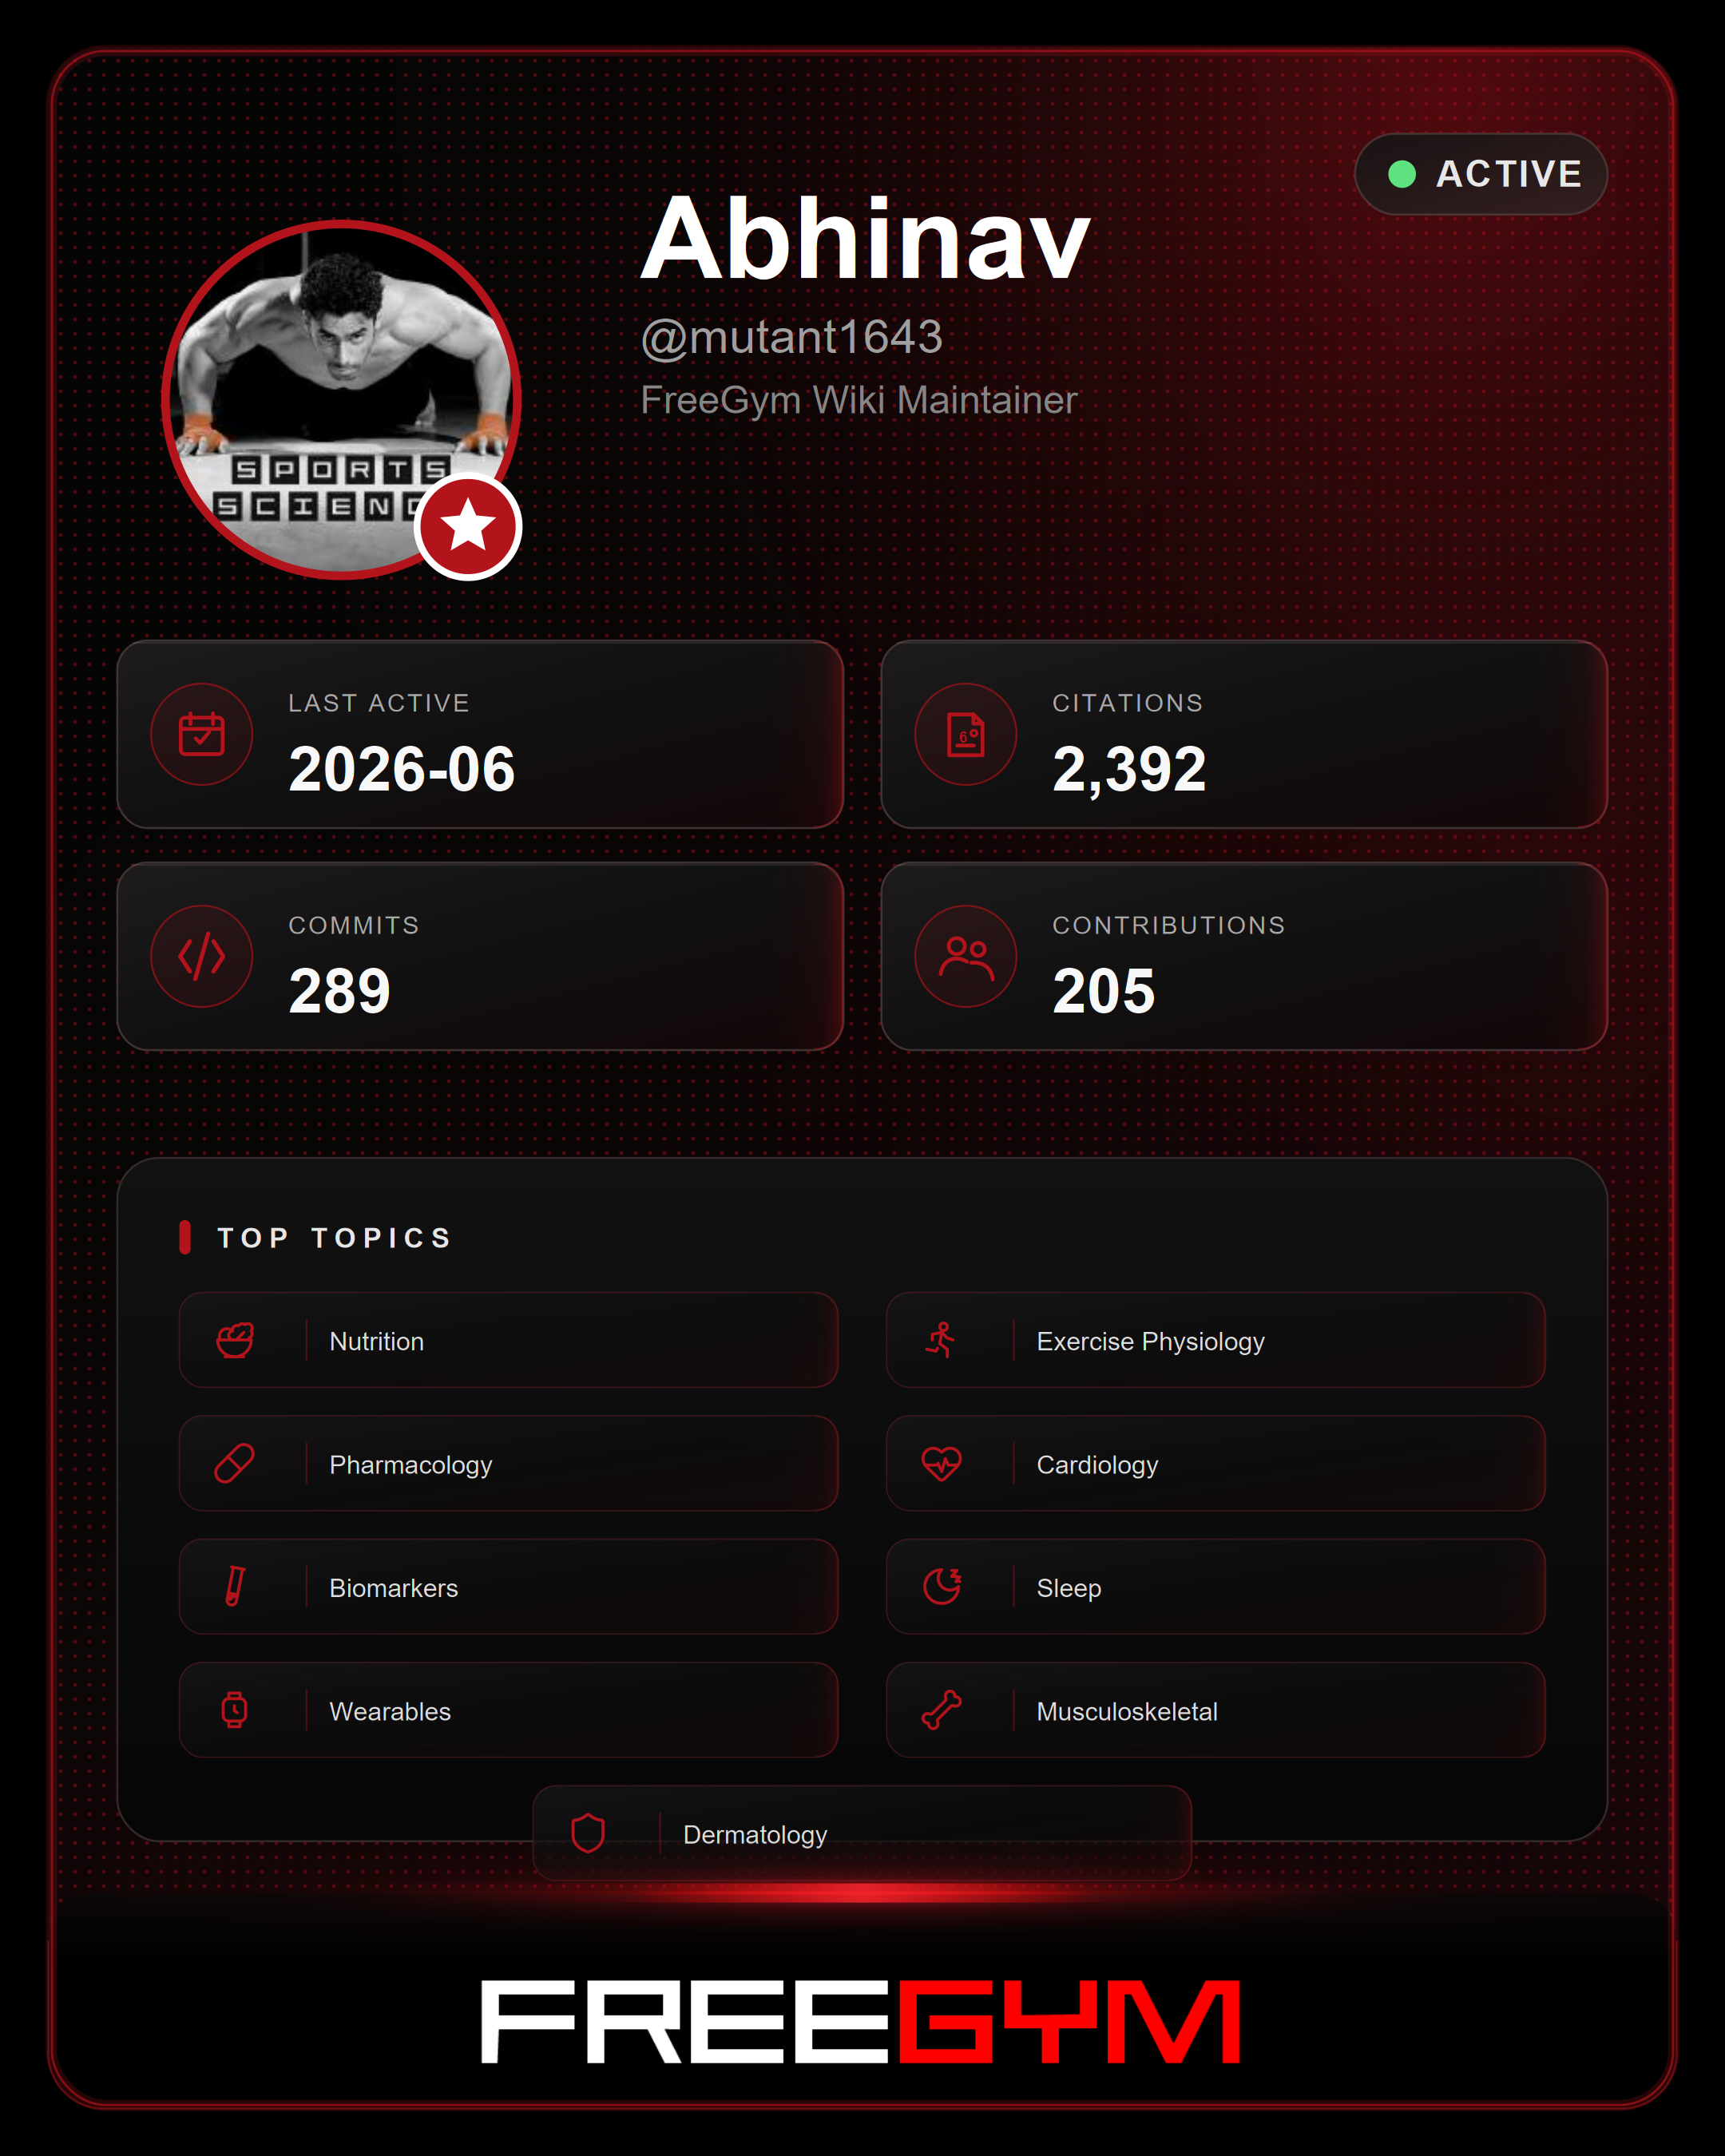
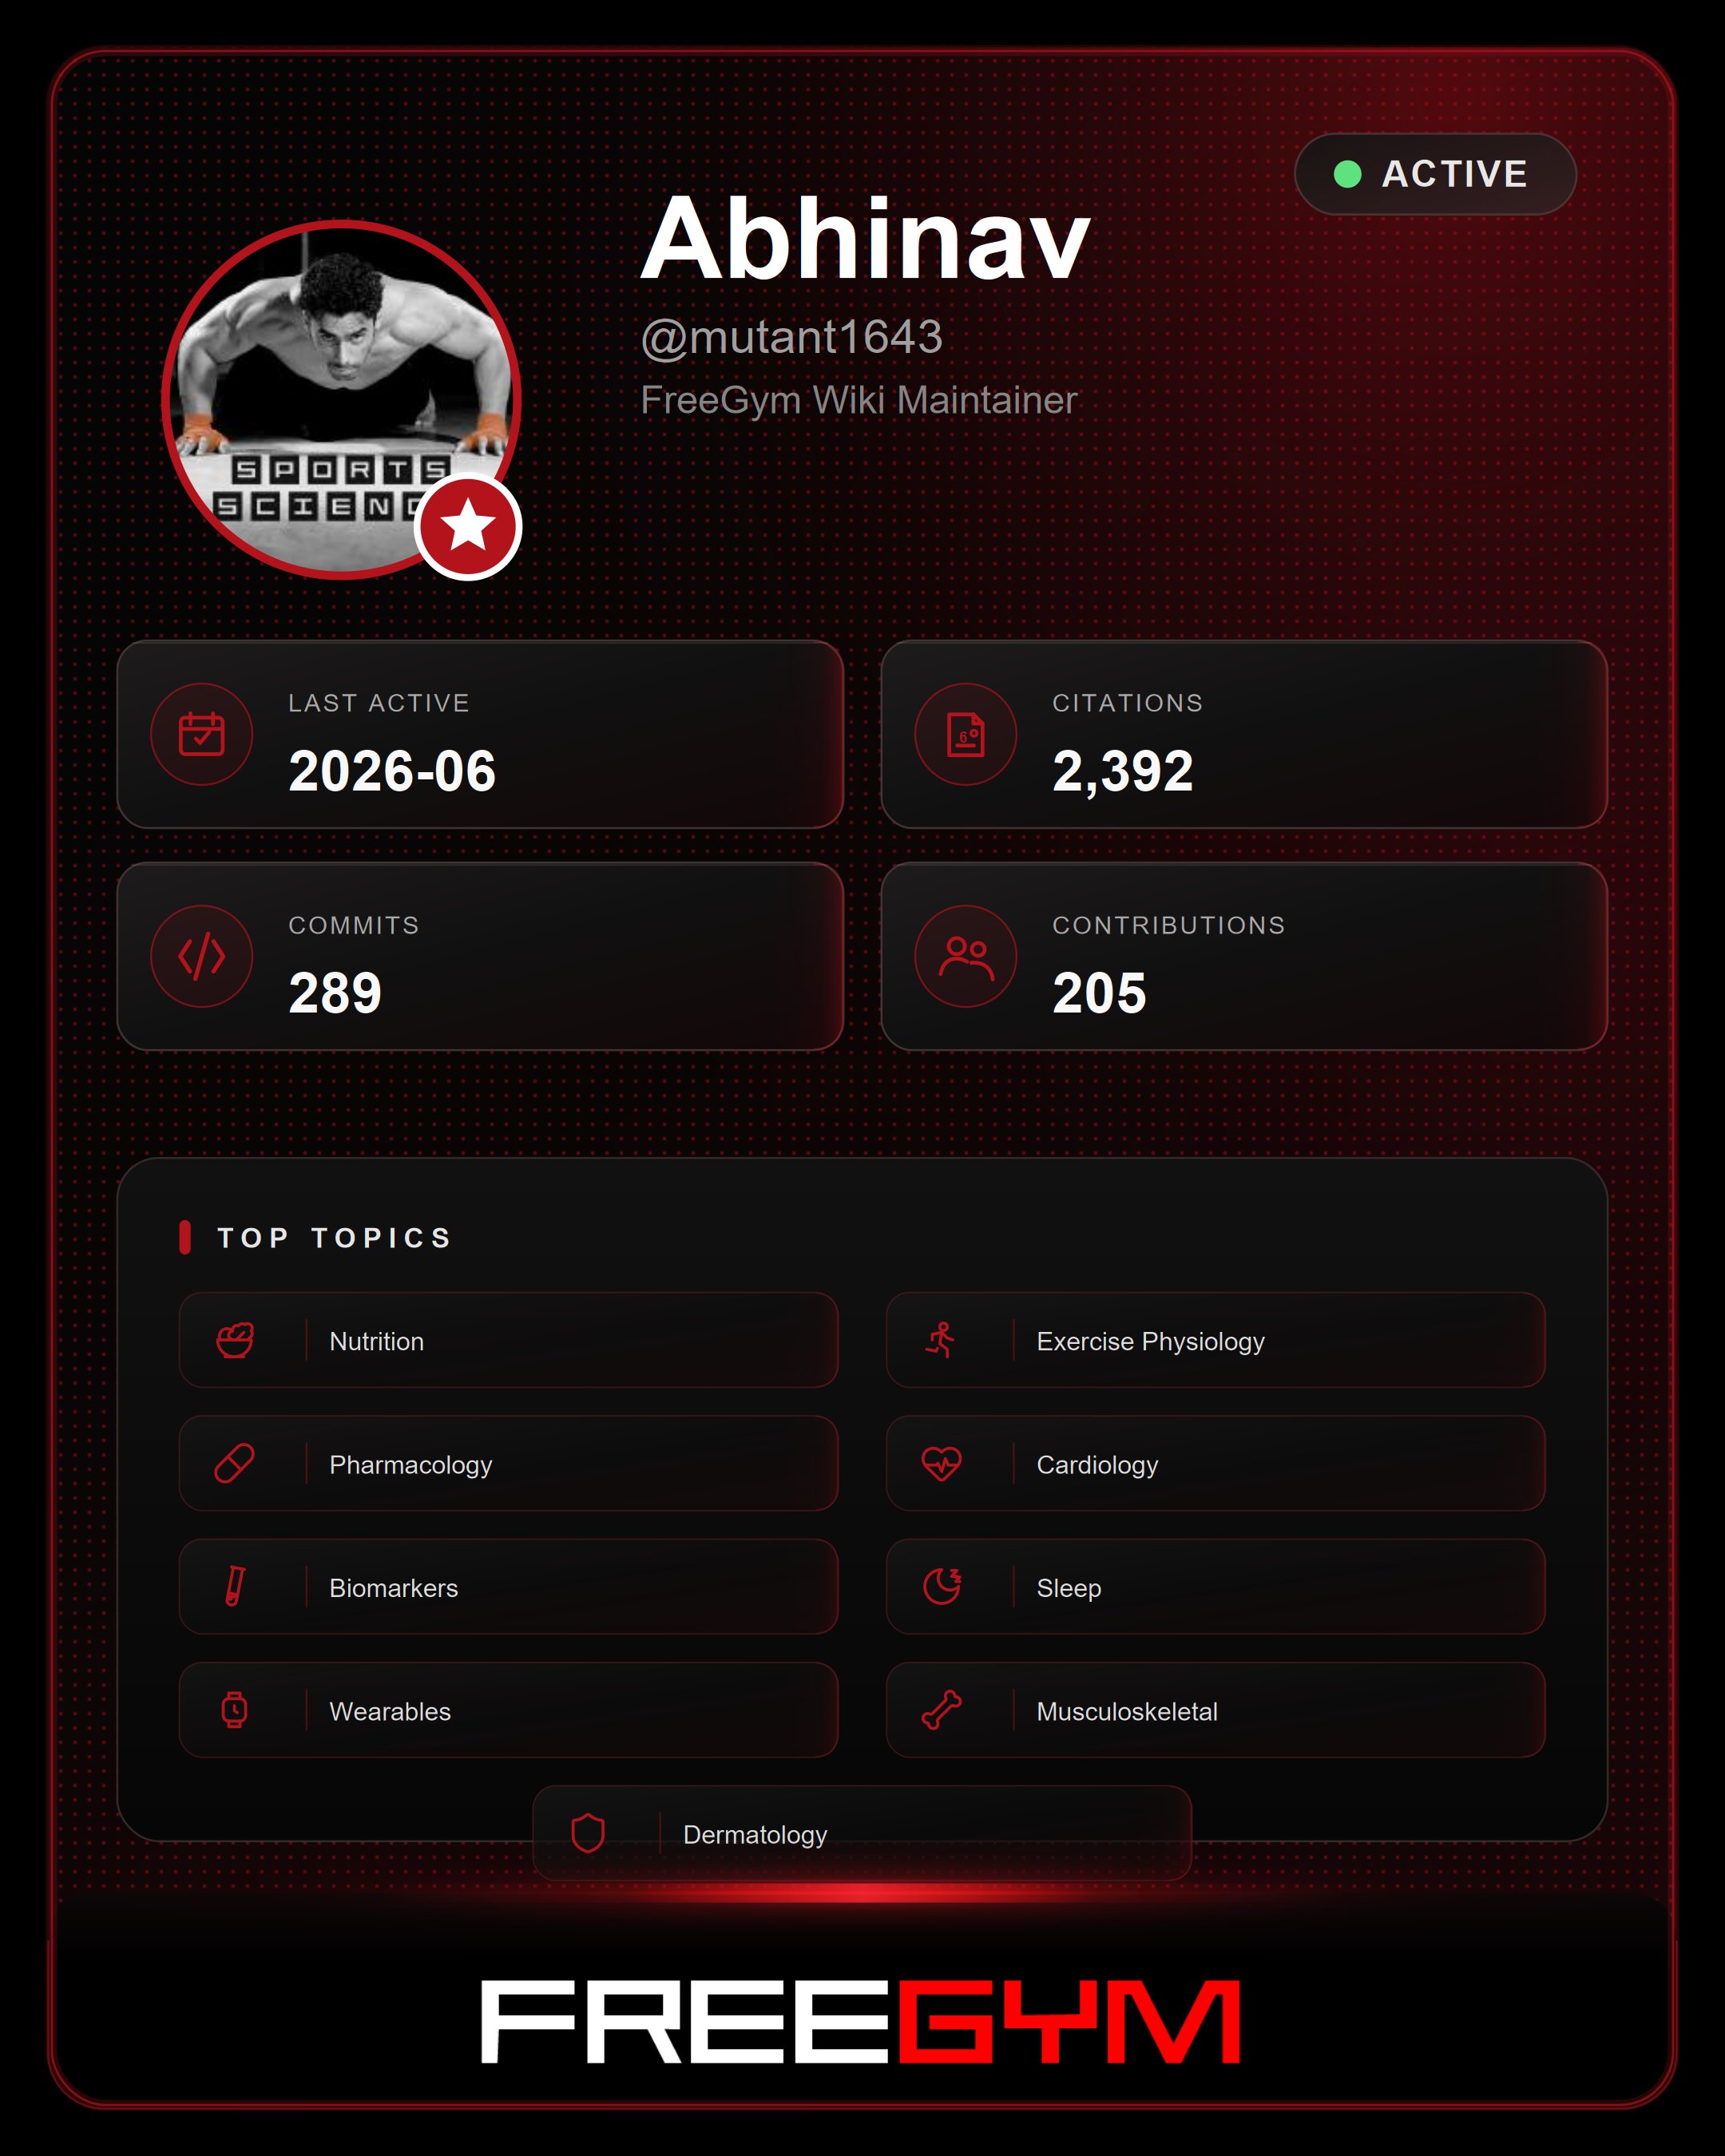
Refine contributor card text spacing

diff --git a/.github/scripts/generate_cards.py b/.github/scripts/generate_cards.py
@@ -438,12 +438,12 @@ def generate_card_reference(
     if active_recent:
         p_fs = max(width * 0.0215, 18)
         dot_r = max(width * 0.008, 8)
-        pad_x = p_fs * 0.9
+        pad_x = p_fs * 1.05
         gap = p_fs * 0.55
-        text_w = len('ACTIVE') * p_fs * 0.62
+        text_w = len('ACTIVE') * p_fs * 0.70
         pill_w = pad_x * 2 + dot_r * 2 + gap + text_w
         pill_h = p_fs * 2.18
-        pill_x = content_x + content_w - pill_w
+        pill_x = content_x + content_w - pill_w - width * 0.018
         pill_y = frame_y + height * 0.04
         cy_p = pill_y + pill_h / 2
         dot_cx = pill_x + pad_x + dot_r
@@ -645,7 +645,7 @@ def generate_card_reference(
         isize = icon_r * 1.06
         text_x = tx + stat_tile_h * 0.91
         lbl_size = max(width * 0.0145, 15)
-        val_size = min(width * 0.036, 40)
+        val_size = min(width * 0.033, 36)
         tile_rx = stat_tile_h * 0.16
         hl_inset = max(tile_rx * 0.5, 6)
         p.append(